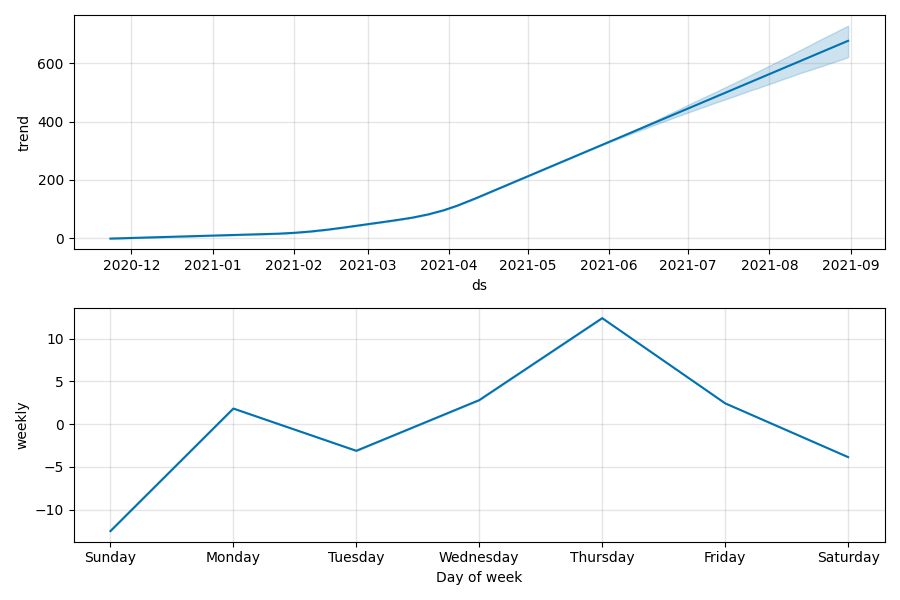
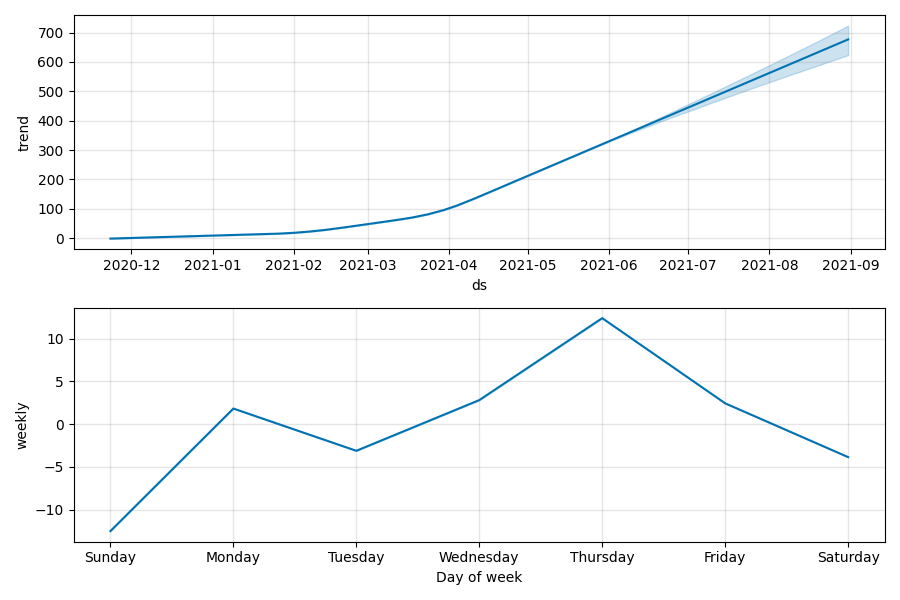
phrophecy completly working

diff --git a/frontend/src/future.js b/frontend/src/future.js
@@ -1,0 +1,55 @@
+import React from 'react'
+import axios from 'axios';
+import styles from './css/future.css'
+import { base64StringToBlob } from 'blob-util';
+
+class Future extends React.Component{
+    constructor(){
+        super()
+        this.state={
+            dropdown_data:"",
+            img:""
+        }
+        this.handleChange=this.handleChange.bind(this);
+        this.handleClick=this.handleClick.bind(this);
+    }
+
+
+    handleChange(event){
+        this.setState({dropdown_data:event.target.value})
+        console.log(this.state.dropdown_data)
+    }
+
+    handleClick(){
+        axios.get('/demo',{params:{"key":this.state.dropdown_data}}).then((response)=>{
+          const Blob = base64StringToBlob(response.data.imageString,'image/png')
+          console.log(Blob)
+          return Blob
+        }).then((Blob)=>{
+          const reader = new FileReader()
+          reader.readAsDataURL(Blob)
+          reader.onloadend=()=>{
+            this.setState({img:URL.createObjectURL(Blob)})
+        }
+    });
+    }
+
+    render(){
+        return(
+            <div className="Future_page">
+                <form>
+                    <select id="future select" name="future select" onChange={this.handleChange}>
+                        <option value="simple">Simple</option>
+                        <option value="change points">With Change points</option>
+                        <option value="trend">Trend</option>
+                    </select>
+                </form>
+                <button onClick={this.handleClick}>View</button>
+                <img src={this.state.img}></img>
+
+            </div>
+        )
+    }
+}
+
+export default Future;

diff --git a/frontend/src/App.js b/frontend/src/App.js
@@ -4,6 +4,9 @@ import { base64StringToBlob } from 'blob-util';
 import styles from './css/App.css'
 import Nav from './nav.js'
 import Side from './side.js'
+import { BrowserRouter as Router, Switch, Route } from 'react-router-dom'
+import Future from './future';
+import Home from './home';
 
 
 class App extends React.Component{
@@ -13,40 +16,30 @@ class App extends React.Component{
       img:"",
       message:"hi"
     }
-    this.handleClick=this.handleClick.bind(this)
   }
-  handleClick(){
-    axios.get('/demo',{params:{"key":"phrophecy"}}).then((response)=>{
-      const Blob = base64StringToBlob(response.data.imageString,'image/png')
-      console.log(Blob)
-      return Blob
-    }).then((Blob)=>{
-      const reader = new FileReader()
-      reader.readAsDataURL(Blob)
-      reader.onloadend=()=>{
-        this.setState({img:URL.createObjectURL(Blob)})
-      }
-    })
-      
+  
     
-
-
-  }
   render(){
 
     return(
-      <div>
-        <Nav/>
-        <div className="Body">
-          <Side/>
-          <div className="Content">
-            <button onClick={this.handleClick}>request</button>
-            <img src = {this.state.img}/>
-          </div>
+      <Router>
+        <div>
+          <Nav/>
+          <div className="Body">
+            <Side/>
+            <div className="Content">
+              <Switch>
+                <Route exact path="/" component={Home} />
+                <Route exact path="/future" component={Future}/>
+              </Switch>
+              
+            </div>
           
-        </div>
+          </div>
         
-      </div>
+        </div> 
+      </Router>
+      
     )
   }
 

diff --git a/frontend/src/side.js b/frontend/src/side.js
@@ -1,5 +1,6 @@
 import React from 'react'
 import styles from './css/side.css'
+import { Link } from 'react-router-dom'
 
 class Side extends React.Component{
     constructor(){
@@ -11,7 +12,9 @@ class Side extends React.Component{
     render(){
         return(
             <div className="Side_bar">
-                <a>Home</a>
+                <Link to="/">Home</Link>
+                <Link to="/future">Future</Link>
+                <a>Visualise</a>
             </div>
         )
     }

diff --git a/frontend/src/home.js b/frontend/src/home.js
@@ -1,11 +1,11 @@
 import React from 'react'
-import Side from './sede.js'
+import Side from './side.js'
+import styles from './css/home.css'
 
 function Home(){
     return(
         <div className="Home_page">
-            <Side/>
-
+            <h1>Check your web page analytics</h1>
         </div>
     )
 }

diff --git a/frontend/src/css/App.css b/frontend/src/css/App.css
@@ -16,16 +16,7 @@ body{
 }
 
 .Content{
-  margin-left: 20rem;
-  margin-top: 3rem;
+  margin-left: 10rem;
   display: flex;
   flex-direction: column;
-}
-
-.Content button{
-  width: 5rem;
-}
-
-.Content img{
-  margin-top: 3rem;
 }

diff --git a/frontend/src/css/future.css b/frontend/src/css/future.css
@@ -1,0 +1,13 @@
+.Future_page{
+    display: flex;
+    flex-direction: column;
+    margin-left: 10rem;
+}
+
+.Future_page form option{
+    width: 4rem;
+}
+
+.Future_page button{
+    width: 3rem;
+}

diff --git a/frontend/src/css/home.css b/frontend/src/css/home.css
@@ -1,0 +1,9 @@
+.Home_page{
+    margin-left: 10rem;
+}
+
+.Home_page h1{
+    margin-top: 10rem;
+    margin-left: 10rem;
+    color: red;
+}

diff --git a/frontend/src/css/side.css b/frontend/src/css/side.css
@@ -11,4 +11,6 @@
 
 .Side_bar a{
     margin-top: 5rem;
+    text-decoration: none;
+    color: black;
 }

diff --git a/api/main.py b/api/main.py
@@ -8,6 +8,7 @@ from flask.wrappers import Response
 from flask_cors import CORS
 from PIL import Image
 import io
+from algos.time_series import timeSeries
 
 
 app = Flask(__name__)
@@ -16,10 +17,14 @@ CORS(app)
 @app.route('/demo',methods=['GET'])
 def demo():
     message = request.args.get('key')
+    i = "New users"
+    timeSeries(i)
     if(message=="trend"):
         img = Image.open('./static/plots.png')
-    else:
+    elif(message=="simple"):
         img = Image.open('./static/phrophecy.png')
+    else:
+        img = Image.open('./static/changepoints.png')    
     output_buffer = io.BytesIO()
     img.save(output_buffer, format='PNG')
     byte_data = output_buffer.getvalue()

diff --git a/api/algos/time_series.py b/api/algos/time_series.py
@@ -24,11 +24,12 @@ def timeSeries(i):
     #print(future_dates.tail())
     future = prophecy.predict(future_dates)
     fig1 = prophecy.plot(future)
-    #plt.savefig('phrophecy.png')
+    plt.savefig('./static/phrophecy.png')
     #plt.show()
     fig2 = add_changepoints_to_plot(fig1.gca(),prophecy,future)
+    plt.savefig('./static/changepoints.png')
     #plt.show()
-    fig3 = prophecy.plot_components(future).savefig('plots.png')
+    fig3 = prophecy.plot_components(future).savefig('./static/plots.png')
     #plt.show()
 
 if __name__=="__main__":

diff --git a/api/algos/check.py b/api/algos/check.py
@@ -1,0 +1,5 @@
+import os
+import pandas
+
+data = pandas.read_csv('./api/processed_data/users.csv')
+print(data.head())
